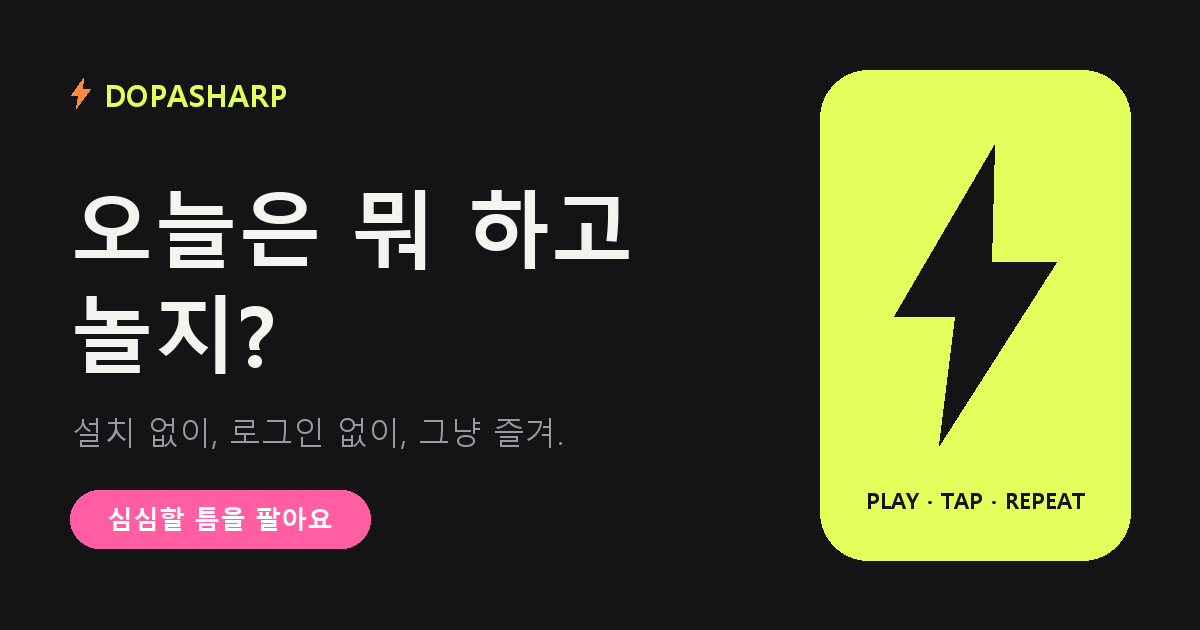
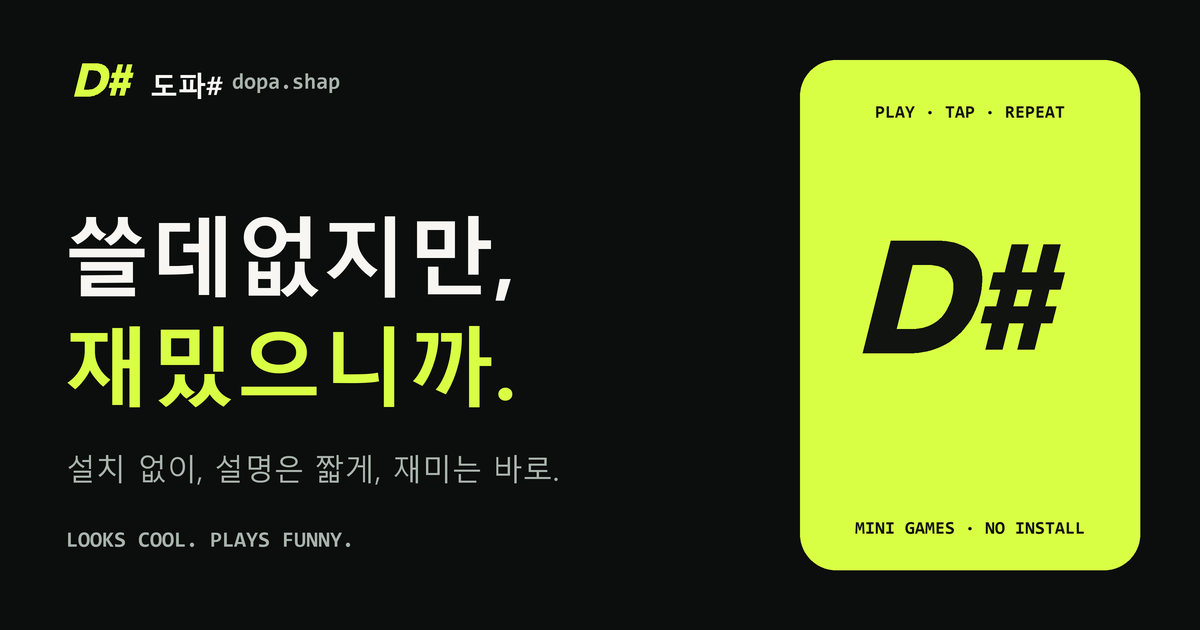
브랜드 이름을 도파# / dopa.shap으로 통일하고 GA4 연결 준비

Changed region(s): [[0.0617, 0.3016, 0.5242, 0.8746], [0.6475, 0.0905, 0.9558, 0.9048], [0.0617, 0.0905, 0.2775, 0.181]]

diff --git a/index.html b/index.html
@@ -3,17 +3,17 @@
 <head>
 <meta charset="utf-8">
 <meta name="viewport" content="width=device-width, initial-scale=1, viewport-fit=cover">
-<title>DOPASHARP · 오늘은 뭐 하고 놀까요?</title>
+<title>도파# · 오늘은 뭐 하고 놀까요?</title>
 <meta name="description" content="설치 없이, 설명은 짧게, 재미는 바로. 누르면 재밌는 것들만 모아둔 도파# 미니게임 놀이터.">
 <meta name="theme-color" content="#0B0E0D">
 <link rel="icon" href="favicon.svg" type="image/svg+xml">
 <link rel="canonical" href="https://dopasharp.github.io/">
 
 <meta property="og:type" content="website">
-<meta property="og:site_name" content="DOPASHARP">
+<meta property="og:site_name" content="도파# dopa.shap">
 <meta property="og:url" content="https://dopasharp.github.io/">
 <meta property="og:title" content="도파# · 오늘은 뭐 하고 놀까요?">
-<meta property="og:description" content="설치 없이, 설명은 짧게, 재미는 바로. 누르면 재밌는 미니게임 모음 ⚡">
+<meta property="og:description" content="설치 없이, 설명은 짧게, 재미는 바로. 누르면 재밌는 미니게임 모음.">
 <meta property="og:image" content="https://dopasharp.github.io/og.png">
 <meta property="og:image:width" content="1200">
 <meta property="og:image:height" content="630">
@@ -27,9 +27,9 @@
 <body>
 <div class="wrap">
   <header class="top">
-    <a class="logo" href="./" aria-label="DOPASHARP 홈">
+    <a class="logo" href="./" aria-label="도파# 홈">
       <span class="brand-mark" aria-hidden="true">D#</span>
-      <span class="brand-name">DOPASHARP<span>INTERACTIVE STUDIO</span></span>
+      <span class="brand-name">dopa.shap<span>INTERACTIVE STUDIO</span></span>
     </a>
     <button class="icon-btn" id="shareSite" type="button">
       <svg width="15" height="15" viewBox="0 0 24 24" fill="none" stroke="currentColor" stroke-width="2.4" stroke-linecap="round" stroke-linejoin="round" aria-hidden="true"><path d="M12 3v13M7 8l5-5 5 5M5 14v5a2 2 0 0 0 2 2h10a2 2 0 0 0 2-2v-5"/></svg>
@@ -85,11 +85,12 @@
   <p class="footer-brand">D#</p>
   <p class="slogan">하나의 브랜드. <em>서로 다른 재미.</em></p>
   <p class="contact">게임 아이디어 · 제휴 문의<br><a href="mailto:dopasharp@gmail.com">✉ dopasharp@gmail.com</a></p>
-  <p class="small">MADE FOR FUN · DOPASHARP · <a href="https://github.com/dopasharp" target="_blank" rel="noopener">GITHUB</a></p>
+  <p class="small">MADE FOR FUN · dopa.shap · <a href="https://github.com/dopasharp" target="_blank" rel="noopener">GITHUB</a></p>
 </footer>
 
 <div class="toast" id="toast" role="status" aria-live="polite"></div>
 
+<script src="analytics.js"></script>
 <script src="games.js"></script>
 <script>
   const BASE = 'https://dopasharp.github.io/';
@@ -108,7 +109,7 @@
   }
 
   // ticker
-  const tick = '<span>PLAY · <b>TAP</b> · REPEAT · 심심할 틈을 팔아요 · DOPASHARP ⚡ ·&nbsp;</span>';
+  const tick = '<span>PLAY · <b>TAP</b> · REPEAT · 쓸데없지만, 재밌으니까 · <b>도파#</b> · dopa.shap ·&nbsp;</span>';
   $('ticker').innerHTML = tick.repeat(8);
 
   // grid
@@ -116,7 +117,7 @@
     <li data-tags="${g.tags.join(' ')}">
       ${g.comingSoon ? '<div class="card next">' : `<a class="card" id="card-${g.id}" href="${url(g)}">`}
         ${g.badge ? `<span class="badge">${g.badge}</span>` : ''}
-        <span class="no">DOPA# ${String(i + 1).padStart(3, '0')}</span>
+        <span class="no">도파# ${String(i + 1).padStart(3, '0')}</span>
         <span class="emoji" aria-hidden="true">${g.emoji}</span>
         <h4>${g.name}</h4>
         <p class="hook">${g.hook}</p>
@@ -198,7 +199,7 @@
   }
   $('shareSite').addEventListener('click', () => share({
     title: '도파# · 오늘은 뭐 하고 놀까요?',
-    text: '설치 없이 바로 하는 미니게임 ⚡',
+    text: '설치 없이 바로 하는 미니게임, 도파#',
     url: BASE,
   }));
 

diff --git a/games/index.html b/games/index.html
@@ -3,17 +3,17 @@
 <head>
 <meta charset="utf-8">
 <meta name="viewport" content="width=device-width, initial-scale=1, viewport-fit=cover">
-<title>모든 게임 | DOPA#</title>
+<title>모든 게임 | 도파#</title>
 <meta name="description" content="설치 없이 바로 하는 도파# 미니게임 전체 목록. 하나 골라서 바로 놀아보세요.">
 <meta name="theme-color" content="#0B0E0D">
 <link rel="icon" href="../favicon.svg" type="image/svg+xml">
 <link rel="canonical" href="https://dopasharp.github.io/games/">
 
 <meta property="og:type" content="website">
-<meta property="og:site_name" content="DOPASHARP">
+<meta property="og:site_name" content="도파# dopa.shap">
 <meta property="og:url" content="https://dopasharp.github.io/games/">
 <meta property="og:title" content="도파# · 모든 게임">
-<meta property="og:description" content="설치 없이, 설명은 짧게, 재미는 바로. 누르면 재밌는 미니게임 모음 ⚡">
+<meta property="og:description" content="설치 없이, 설명은 짧게, 재미는 바로. 누르면 재밌는 미니게임 모음.">
 <meta property="og:image" content="https://dopasharp.github.io/og.png">
 <meta property="og:image:width" content="1200">
 <meta property="og:image:height" content="630">
@@ -36,9 +36,9 @@
 <body>
 <div class="wrap">
   <header class="top">
-    <a class="logo" href="../" aria-label="DOPASHARP 홈">
+    <a class="logo" href="../" aria-label="도파# 홈">
       <span class="brand-mark" aria-hidden="true">D#</span>
-      <span class="brand-name">DOPASHARP<span>INTERACTIVE STUDIO</span></span>
+      <span class="brand-name">dopa.shap<span>INTERACTIVE STUDIO</span></span>
     </a>
     <a class="icon-btn back" id="back" href="../" hidden>← <span id="backName">돌아가기</span></a>
   </header>
@@ -63,9 +63,10 @@
   <p class="footer-brand">D#</p>
   <p class="slogan">하나의 브랜드. <em>서로 다른 재미.</em></p>
   <p class="contact">게임 아이디어 · 제휴 문의<br><a href="mailto:dopasharp@gmail.com">✉ dopasharp@gmail.com</a></p>
-  <p class="small">MADE FOR FUN · DOPASHARP · <a href="https://github.com/dopasharp" target="_blank" rel="noopener">GITHUB</a></p>
+  <p class="small">MADE FOR FUN · dopa.shap · <a href="https://github.com/dopasharp" target="_blank" rel="noopener">GITHUB</a></p>
 </footer>
 
+<script src="../analytics.js"></script>
 <script src="../games.js"></script>
 <script>
   const BASE = 'https://dopasharp.github.io/';
@@ -86,7 +87,7 @@
   $('grid').innerHTML = GAMES.filter(g => g !== came).map(g => `
     <li data-tags="${g.tags.join(' ')}">
       ${g.comingSoon ? '<div class="card next">' : `<a class="card" href="${url(g)}">`}
-        <span class="no">DOPA# ${g.no}</span>
+        <span class="no">도파# ${g.no}</span>
         <span class="emoji" aria-hidden="true">${g.emoji}</span>
         <h4>${g.name}</h4>
         <p class="hook">${g.hook}</p>

diff --git a/games.js b/games.js
@@ -1,11 +1,11 @@
-// The one DOPASHARP game list. Its order sets the DOPA# 00N numbers on the hub and in every game's header
+// The one 도파# game list. Its order sets the 도파# 00N numbers on the hub and in every game's header
 // (each game repo mirrors it in dopasharp/dopasharp.js). Add a game here, then update that copy.
 window.DOPA_GAMES = [
   { id: 'soju-game',     emoji: '🍶', name: '짠! 소주 따르기', hook: '회사에서 몰래? 소주 따르기!',  tags: ['solo', 'duo', 'party'],  meta: ['폰 2대', '술자리'] },
   { id: 'ppro_game',     emoji: '🍫', name: '빼빼로게임',     hook: '만나서 즐겨요. 폰사이를 넘나드는 곰돌이', tags: ['duo', 'event'],       meta: ['폰 2대'] },
   { id: 'croc-chomp',    emoji: '🐊', name: '악어 이빨 게임', hook: '우리 악어는 물어요. 이빨을 눌러보세요.',         tags: ['solo', 'duo', 'party'], meta: ['돌아가며', '3D'] },
   { id: 'hbd-lotto', emoji: '🎟', name: '생일 복권', hook: '확률조작! 100% 당첨복권. 친구에게 도파민을 선물하세요', tags: ['duo', 'event'], meta: ['생일', '복권'] },
-  { id: 'birthday-hoo',  emoji: '🎂', name: '생일 케이크', hook: '촛불을 못 불땐? 도파#케이크를 불어보세요!',    tags: ['solo', 'duo', 'party', 'event'],         meta: ['보내기', '마이크'] },
+  { id: 'birthday-hoo',  emoji: '🎂', name: '생일 케이크', hook: '촛불을 못 불 땐? 도파# 케이크를 불어보세요!',    tags: ['solo', 'duo', 'party', 'event'],         meta: ['보내기', '마이크'] },
   { id: 'axe-throwing',  emoji: '🪓', name: '도끼 던지기',    hook: '스트레스 해소엔 도끼던지기!! 더 생길수도..', tags: ['solo', 'duo', 'party'], meta: ['폰 2대', '동작 센서'] },
   { id: 'truth-mirror',  emoji: '🪞', name: '진실의 거울',    hook: '거울은 솔직해요. 가끔은 너무요.',     tags: ['solo', 'party'], meta: ['카메라', '장난'] },
   { id: 'gacha-capsule', emoji: '🎰', name: '랜덤 뽑기',     hook: '오늘의 운, 한 번 뽑아보세요.',        tags: ['solo', 'party'],          meta: ['혼자', '행운 테스트'] },

diff --git a/analytics.js b/analytics.js
@@ -1,0 +1,31 @@
+// 도파# analytics: the one GA4 ID for the hub and every game.
+// The hub pages load this file directly; each game's dopasharp/dopasharp.js loads it from the hub,
+// so changing GA_ID here (and pushing) switches measurement on everywhere.
+(function () {
+  var GA_ID = ''; // GA4 measurement ID, e.g. 'G-XXXXXXXXXX'. Empty = measure nothing.
+  if (!GA_ID || window.__dopaGA) return;
+
+  window.dataLayer = window.dataLayer || [];
+  window.gtag = window.gtag || function () { window.dataLayer.push(arguments); };
+  window.gtag('js', new Date());
+  window.gtag('config', GA_ID);
+  window.__dopaGA = true;
+
+  // Events a game fired before this file arrived (game_view on load, mostly).
+  (window.__dopaPending || []).splice(0).forEach(function (e) { window.gtag('event', e[0], e[1]); });
+
+  var s = document.createElement('script');
+  s.async = true;
+  s.src = 'https://www.googletagmanager.com/gtag/js?id=' + GA_ID;
+  document.head.appendChild(s);
+
+  // On the hub (home and /games/), which game card people pick.
+  if (location.hostname === 'dopasharp.github.io' && /^\/(games\/)?$/.test(location.pathname)) {
+    document.addEventListener('click', function (e) {
+      var a = e.target.closest && e.target.closest('a[href]');
+      var m = a && a.href.match(/^https:\/\/dopasharp\.github\.io\/([\w-]+)\/(?:[?#]|$)/);
+      if (!m || m[1] === 'games') return;
+      window.gtag('event', 'hub_game_click', { game_id: m[1], placement: a.id === 'pick' ? 'today_pick' : 'grid', page: location.pathname });
+    });
+  }
+})();

diff --git a/README.md b/README.md
@@ -1,6 +1,6 @@
-# ⚡ DOPASHARP
+# 도파# · dopa.shap
 
-**심심할 틈을 팔아요.** 누르면 재밌는 것들만 모아둔 도파샵 게임 허브.
+**쓸데없지만, 재밌으니까.** 누르면 재밌는 것들만 모아둔 도파# 게임 허브.
 
 👉 https://dopasharp.github.io
 
@@ -17,6 +17,6 @@
 
 전체 게임 목록은 [/games/](https://dopasharp.github.io/games/)에 있어요. 각 게임의 "다른 게임 보기"가 이 페이지로 연결되고, `?from=저장소이름`으로 들어오면 방금 한 게임은 목록에서 빠지고 돌아가기 링크가 생겨요.
 
-새 게임을 추가하려면 `games.js`의 `DOPA_GAMES` 배열에 한 줄 추가하면 됩니다. 홈과 /games/가 같은 목록을 써요. 순서가 `DOPA# 00N` 번호가 되니, 순서를 바꾸면 각 게임 저장소의 `dopasharp/dopasharp.js` 목록도 같은 순서로 맞춰 주세요.
+새 게임을 추가하려면 `games.js`의 `DOPA_GAMES` 배열에 한 줄 추가하면 됩니다. 홈과 /games/가 같은 목록을 써요. 순서가 `도파# 00N` 번호가 되니, 순서를 바꾸면 각 게임 저장소의 `dopasharp/dopasharp.js` 목록도 같은 순서로 맞춰 주세요.
 
 로컬 실행: `python -m http.server 4180` 후 http://localhost:4180
